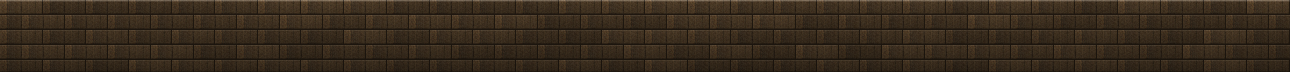
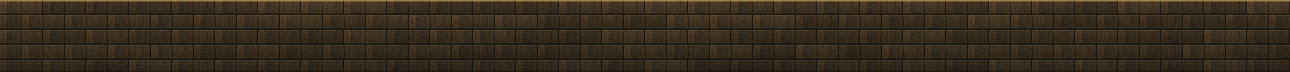
Restore gameplay alerts and refine world-specific wall crowns

Changed region(s): [[0.0, 0.0, 1.0, 0.0278]]

diff --git a/script.js b/script.js
@@ -4,7 +4,7 @@
    A/D = Vor/Zurück | P = Pause
    ============================================ */
 
-const BUILD_ID = "sidescroller-v3-138";
+const BUILD_ID = "sidescroller-v3-139";
 const GAME_VERSION = 3;
 const WORLD_LAYOUT_VERSION = 4;
 
@@ -697,6 +697,8 @@ const game = {
   meta: null,
   /** Boss-Einblendung { name, hp, maxHp, timer } */
   bossIntro: null,
+  /** Sichtbare Spielmeldungen: Weltwechsel / Fähigkeit bereit */
+  announcement: null,
   /** Dezente Bildschirm-Effekte */
   critFlash: 0, zoomPulse: 0,
   /** Fähigkeiten-Cast-Sperre (keine gleichzeitigen Spezialfähigkeiten) */
@@ -3228,7 +3230,7 @@ function resetRun() {
   game.waveNumber = 0; game.currentWave = null;
   game.waveIntro = false; game.combatReady = true;
   game.worldParticles = [];
-  game.bossIntro = null; game.abilityCastLock = 0;
+  game.bossIntro = null; game.announcement = null; game.abilityCastLock = 0;
   game.critFlash = 0; game.zoomPulse = 0;
   $("loot-display").classList.add("hidden");
   initWorldBackground();
@@ -3727,7 +3729,7 @@ function startBossIntro(bossEnemy) {
     name: bossEnemy.name,
     hp: bossEnemy.hp,
     maxHp: bossEnemy.maxHp,
-    timer: 2.8
+    timer: 3.2
   };
   game.screenShake = Math.max(game.screenShake, 6);
   game.zoomPulse = 0.08;
@@ -3738,6 +3740,22 @@ function updateBossIntro(dt) {
   if (!game.bossIntro) return;
   game.bossIntro.timer -= dt;
   if (game.bossIntro.timer <= 0) game.bossIntro = null;
+}
+
+function showAnnouncement(kind, title, subtitle, duration) {
+  game.announcement = {
+    kind,
+    title,
+    subtitle: subtitle || "",
+    timer: duration || 2.4,
+    duration: duration || 2.4
+  };
+}
+
+function updateAnnouncement(dt) {
+  if (!game.announcement) return;
+  game.announcement.timer -= dt;
+  if (game.announcement.timer <= 0) game.announcement = null;
 }
 
 function getPrimaryTarget(range) {
@@ -3991,6 +4009,25 @@ function updateAbilityState(dt, h) {
   if (game.abilityCastLock > 0) game.abilityCastLock -= dt;
   if (h.warriorBuff > 0) h.warriorBuff -= dt;
   Object.keys(h.abilityCds).forEach((k) => { h.abilityCds[k] += dt; });
+
+  // Sichtbare Rückmeldung nur beim Übergang Cooldown → bereit.
+  // Initial bereite Fähigkeiten werden nicht als Popup gespammt.
+  h.abilityReadyState = h.abilityReadyState || {};
+  [0, 1].forEach((slotIdx) => {
+    const ab = getEquippedAbilityAtSlot(slotIdx);
+    if (!ab) return;
+    const ready = (h.abilityCds[ab.id] || 0) >= getEffectiveAbilityCd(ab);
+    const previous = h.abilityReadyState[ab.id];
+    if (previous === false && ready) {
+      showAnnouncement(
+        "ability",
+        "ULT BEREIT",
+        getAbilityKeyLabel(slotIdx) + " · " + ab.name,
+        1.8
+      );
+    }
+    h.abilityReadyState[ab.id] = ready;
+  });
 }
 
 function useEquippedAbility(slotIdx) {
@@ -4002,7 +4039,11 @@ function useEquippedAbility(slotIdx) {
   const cd = getEffectiveAbilityCd(ab);
   if ((h.abilityCds[ab.id] || 0) < cd) return;
   if (!canCastAbility(ab, h, st)) return;
-  if (castAbility(ab, h, st)) h.abilityCds[ab.id] = 0;
+  if (castAbility(ab, h, st)) {
+    h.abilityCds[ab.id] = 0;
+    h.abilityReadyState = h.abilityReadyState || {};
+    h.abilityReadyState[ab.id] = false;
+  }
 }
 
 function useSpecial() { useEquippedAbility(0); }
@@ -4051,6 +4092,7 @@ function updateFrame(dt) {
   if (game.critFlash > 0) game.critFlash = Math.max(0, game.critFlash - dt * 2.5);
   if (game.zoomPulse > 0) game.zoomPulse = Math.max(0, game.zoomPulse - dt * 0.06);
   updateBossIntro(dt);
+  updateAnnouncement(dt);
 
   const moveLeft = keys.a || keys.arrowleft;
   const moveRight = keys.d || keys.arrowright;
@@ -4268,6 +4310,7 @@ function onEnemyKill(e) {
     initWorldBackground();
     startWorldTransition(newWorld);
     addLog("⚠ NEUE WELT: " + newWorld.name + " – härter, aber machbar!", "boss");
+    showAnnouncement("world", "NEUE WELT", newWorld.name, 3.0);
     playWorldMusic(newWorld);
     emitCombatEvent("world_change");
   }
@@ -4581,6 +4624,46 @@ function render() {
     ctx.fillStyle = "rgba(200,200,200," + alpha + ")";
     ctx.fillText("Spezialangriffe – Vorsicht!", CW / 2, by + 28);
     ctx.textAlign = "left";
+  }
+
+  /** Spielereignisse: Weltwechsel und Fähigkeit bereit – UI, nie Welt-Layer */
+  if (game.announcement) {
+    const a = game.announcement;
+    const fadeIn = Math.min(1, (a.duration - a.timer) / 0.18);
+    const fadeOut = Math.min(1, a.timer / 0.35);
+    const alpha = fadeIn * fadeOut;
+    const isWorld = a.kind === "world";
+    const col = isWorld ? "#f1c40f" : "#71d99b";
+    const y = isWorld ? 82 : 104;
+
+    ctx.save();
+    ctx.globalAlpha = alpha;
+    ctx.textAlign = "center";
+    ctx.font = "bold " + (isWorld ? 17 : 15) + "px Courier New";
+    const titleW = ctx.measureText(a.title).width;
+    const subFont = "bold 11px Courier New";
+    ctx.font = subFont;
+    const subW = ctx.measureText(a.subtitle).width;
+    const boxW = Math.max(titleW, subW) + 34;
+    const boxH = a.subtitle ? 36 : 25;
+    const boxX = (CW - boxW) / 2;
+    const boxY = y - 20;
+
+    ctx.fillStyle = "rgba(5,8,10,0.78)";
+    ctx.fillRect(boxX, boxY, boxW, boxH);
+    ctx.strokeStyle = isWorld ? "rgba(241,196,15,0.72)" : "rgba(113,217,155,0.72)";
+    ctx.lineWidth = 1;
+    ctx.strokeRect(boxX + 0.5, boxY + 0.5, boxW - 1, boxH - 1);
+
+    ctx.font = "bold " + (isWorld ? 17 : 15) + "px Courier New";
+    ctx.fillStyle = col;
+    ctx.fillText(a.title, CW / 2, y);
+    if (a.subtitle) {
+      ctx.font = subFont;
+      ctx.fillStyle = "#f3ead0";
+      ctx.fillText(a.subtitle, CW / 2, y + 14);
+    }
+    ctx.restore();
   }
 
   if (game.isRunning && !game.isPaused && mouse.onCanvas) {

diff --git a/index.html b/index.html
@@ -10,7 +10,7 @@
   <link rel="preconnect" href="https://fonts.googleapis.com">
   <link rel="preconnect" href="https://fonts.gstatic.com" crossorigin>
   <link href="https://fonts.googleapis.com/css2?family=Cinzel:wght@500;700&display=swap" rel="stylesheet">
-  <link rel="stylesheet" href="style.css?v=138">
+  <link rel="stylesheet" href="style.css?v=139">
 </head>
 <body>
 
@@ -253,16 +253,16 @@
 
   </main>
 
-  <footer class="footer"><p>Dungeon Loop · Build <span class="footer-build">sidescroller-v3-138</span> · Offline-fähig</p></footer>
-  <script src="asset-pack.js?v=138"></script>
-  <script src="world-config.js?v=138"></script>
-  <script src="world-render.js?v=138"></script>
-  <script src="visual-enemies.js?v=138"></script>
-  <script src="visual-fx.js?v=138"></script>
-  <script src="pack-fx.js?v=138"></script>
-  <script src="visual-sprites.js?v=138"></script>
-  <script src="hero-render.js?v=138"></script>
-  <script src="abilities.js?v=138"></script>
-  <script src="script.js?v=138"></script>
+  <footer class="footer"><p>Dungeon Loop · Build <span class="footer-build">sidescroller-v3-139</span> · Offline-fähig</p></footer>
+  <script src="asset-pack.js?v=139"></script>
+  <script src="world-config.js?v=139"></script>
+  <script src="world-render.js?v=139"></script>
+  <script src="visual-enemies.js?v=139"></script>
+  <script src="visual-fx.js?v=139"></script>
+  <script src="pack-fx.js?v=139"></script>
+  <script src="visual-sprites.js?v=139"></script>
+  <script src="hero-render.js?v=139"></script>
+  <script src="abilities.js?v=139"></script>
+  <script src="script.js?v=139"></script>
 </body>
 </html>

diff --git a/asset-pack.js b/asset-pack.js
@@ -10,7 +10,7 @@
     worldReady: Object.create(null),
     worldLoading: Object.create(null),
     base: "assets/pack/",
-    version: "138",
+    version: "139",
 
     loadImage(path) {
       return new Promise((resolve) => {

diff --git a/tools/build_world_layers.py b/tools/build_world_layers.py
@@ -51,6 +51,16 @@ WALL_TONE = {
 # warm und wuerde sonst faelschlich Glut-Akzente bekommen.
 GLOW_WORLDS = ("fire",)
 
+# Sichtbare Mauerkrone pro Welt – nur ein schmaler Akzent auf der Oberkante,
+# damit das Material lesbar bleibt und nie eine weitere Spielebene entsteht.
+WALL_CAP = {
+    "forest": (104, 128, 74),  # Moos
+    "swamp":  (86, 104, 66),   # nasses Moos
+    "frost":  (196, 220, 236), # Schnee/Eis
+    "fire":   (205, 84, 38),   # Glut
+    "ruins":  (192, 158, 104), # sonnenwarmer Sandstein
+}
+
 
 def load(path: Path) -> Image.Image | None:
     return Image.open(path).convert("RGBA") if path.exists() else None
@@ -184,9 +194,10 @@ def brick_wall(theme: str, width: int, height: int) -> np.ndarray:
     for y in range(height):
         wall[y, :, :3] = (wall[y, :, :3] * (1.0 - 0.24 * (y / max(1, height - 1)))).astype(np.uint8)
 
-    # Deckplatte: helle Mauerkrone = sichtbare Laufkante der Figuren
-    wall[0, :, :3] = np.clip(wall[0, :, :3].astype(np.int16) + 38, 0, 255).astype(np.uint8)
-    wall[1, :, :3] = np.clip(wall[1, :, :3].astype(np.int16) + 18, 0, 255).astype(np.uint8)
+    # Deckplatte: sichtbare, weltpassende Laufkante der Figuren
+    cap = np.asarray(WALL_CAP[theme], dtype=np.float32)
+    wall[0, :, :3] = np.clip(wall[0, :, :3] * 0.35 + cap * 0.65, 0, 255).astype(np.uint8)
+    wall[1, :, :3] = np.clip(wall[1, :, :3] * 0.65 + cap * 0.35, 0, 255).astype(np.uint8)
     return wall
 
 
